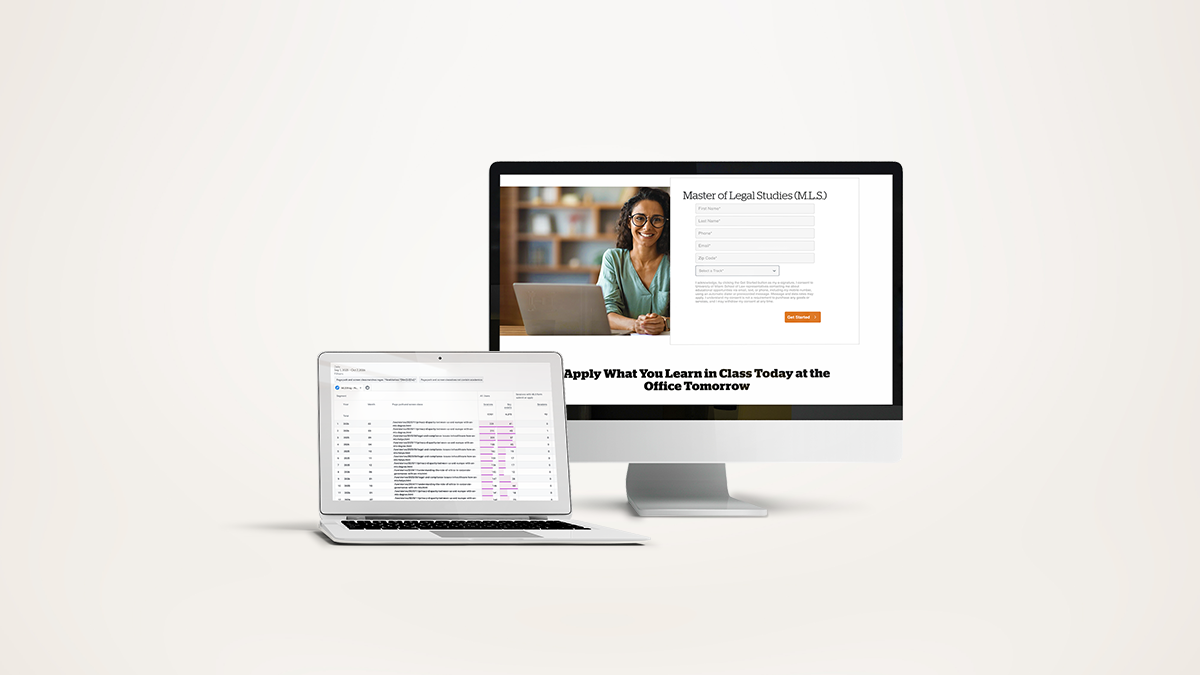
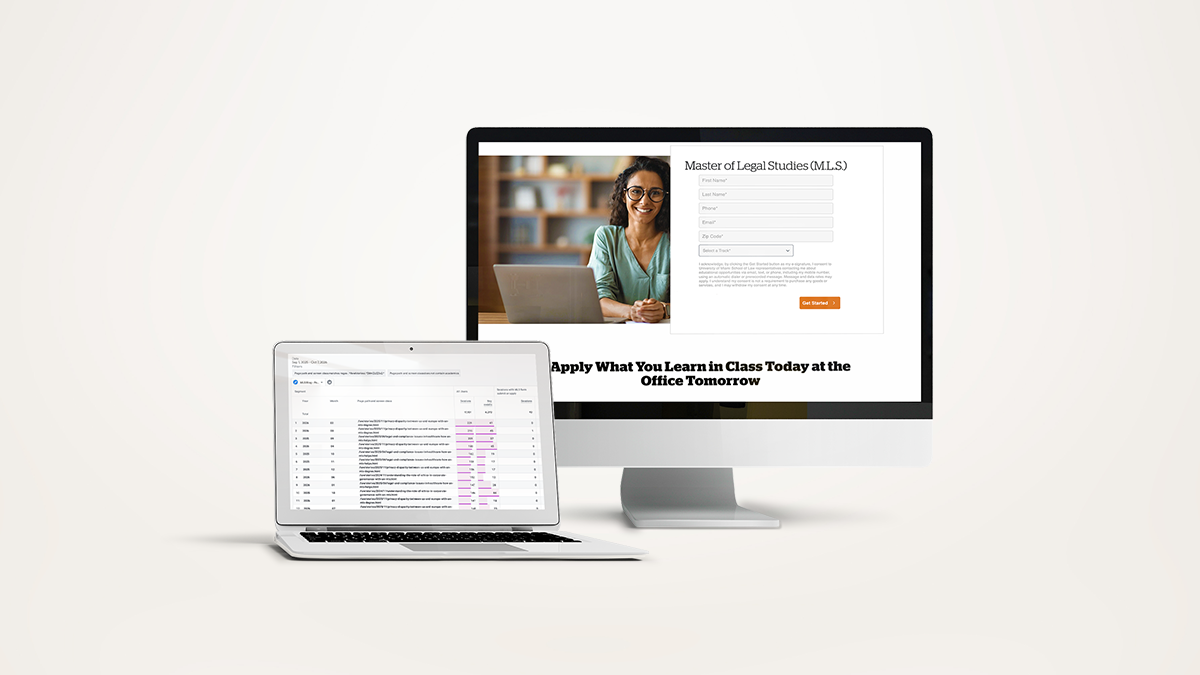
Refine about/resume copy, widen CTA section, update MLS case study image

Changed region(s): [[0.185, 0.1867, 0.8017, 0.84]]

diff --git a/index.html b/index.html
@@ -99,7 +99,7 @@
 				<h3>Profile</h3>
 				<p>I lead the strategy behind how people find, use, and act on digital content, and how we measure
 					whether it's working. At the University of Miami School of Law, I set the multi-year digital roadmap
-					aligned to the Dean's priorities, oversee DataHub, our web and digital analytics team, and connect
+					aligned to the Dean's priorities, and connect
 					information architecture, analytics, SEO/AEO, and content governance into one practice. I've raised
 					site health from 48 to 89, built the reporting teams across the school use to track their own
 					performance, and am leading the consolidation of four web properties into one. <strong>Bilingual in
@@ -117,7 +117,7 @@
 					</li>
 					<li>
 						<strong>Email:</strong>
-						<span>shavellythen@gmail.com</span>
+						<span><a href="mailto:shavellythen@gmail.com">shavellythen@gmail.com</a></span>
 					</li>
 
 				</ul>
@@ -128,36 +128,31 @@
 				<h3>Skills</h3>
 
 
-				<ul class="skill-bars">
+				<ul class="info-list">
 					<li>
-						<div class="progress percent90"><span>90%</span></div>
-						<strong>Figma / UX-UI Design</strong>
+						<strong>Analytics:</strong>
+						<span>GA4, Looker Studio, Google Tag Manager, Google Search Console, Microsoft Clarity</span>
 					</li>
 					<li>
-						<div class="progress percent93"><span>93%</span></div>
-						<strong>Information Architecture</strong>
+						<strong>SEO &amp; AI Search:</strong>
+						<span>Ahrefs, Semrush, Screaming Frog, Schema Markup</span>
 					</li>
 					<li>
-						<div class="progress percent95"><span>95%</span></div>
-						<strong>Content Management Systems</strong>
+						<strong>CMS:</strong>
+						<span>Cascade (Hannon Hill), Drupal, WordPress, SharePoint, Elfsight</span>
 					</li>
 					<li>
-						<div class="progress percent97"><span>97%</span></div>
-						<strong>Adobe Creative Suite</strong>
+						<strong>Research:</strong>
+						<span>UserTesting/UserZoom, Qualtrics, Card Sorting &amp; Tree Testing</span>
 					</li>
 					<li>
-						<div class="progress percent90"><span>90%</span></div>
-						<strong>Analytics</strong>
+						<strong>Design &amp; Code:</strong>
+						<span>Figma, Adobe Creative Suite, HTML/CSS</span>
 					</li>
 					<li>
-						<div class="progress percent85"><span>85%</span></div>
-						<strong>SEO Tools</strong>
+						<strong>Project Management:</strong>
+						<span>Asana, Jira, Monday.com</span>
 					</li>
-					<li>
-						<div class="progress percent90"><span>90%</span></div>
-						<strong>HTML / CSS</strong>
-					</li>
-
 				</ul>
 			</div>
 
@@ -212,47 +207,39 @@
 						<div class="timeline-content">
 							<h5>University of Miami, School of Law</h5>
 							<ul>
-								<li>Set the multi-year digital roadmap for the School of Law, aligned to the Dean's
-									priorities, spanning site architecture, analytics, SEO/AEO, and content governance
-								</li>
-
-								<li>Oversee DataHub, the school's web and digital analytics function: built 19 Looker
-									Studio dashboards with automated reporting used by admissions, marketing, writers,
-									and social media teams</li>
-
-								<li>Standardized UTM naming across 3 programs and added tracking to 6 previously
-									untracked newsletters, enabling campaign analysis for the first time</li>
-
-								<li>Diagnosed a 35% decline in Google traffic to the MLS blog using GA4 and Search
-									Console while confirming leads rose 47%, then rescoped the agency content plan
-									around data-prioritized rewrites</li>
-
-								<li>Restructured the Heckerling Institute site into a registration funnel informed by
-									GA4 path analysis; since launch, visitors rose 26% and clicks on key links rose 89%
-								</li>
-
-								<li>Leading the consolidation of four Law web properties (student, alumni, admissions,
-									and Heckerling Institute) onto a single domain: content inventory, redirect
-									strategy, and phased migration to preserve SEO authority and answer-engine (AEO)
-									citation</li>
-
-								<li>Raised law.miami.edu site health from 48 to 89 and admissions.law.miami.edu from 77
-									to a perfect 100 (Ahrefs)</li>
-
-								<li>Led a content and IA revamp of 44 LL.M. program pages, lifting key events 15.4% and
-									sessions 9.4%, even during a slower admissions cycle</li>
-
-								<li>Leading AI search visibility strategy: implemented FAQ schema via Google Tag Manager
-									on graduate program pages and evaluating AI visibility tracking with Semrush</li>
-
-								<li>Activated a Cascade audit report, making the School of Law the first UM school with
-									a live inventory of every page, its owner, and its update history</li>
-
-								<li>Own the digital tool stack (Ahrefs, Screaming Frog, Elfsight, GA4, Looker Studio),
-									including vendor evaluation and budget requests</li>
-
-								<li>Manage a direct report and train departments across the school on CMS publishing,
-									digital tools, and self-service reporting; launched monthly Web Office Hours</li>
+								<li>Set the multi-year digital roadmap for the School of Law, aligned to the Dean's priorities, spanning site
+									architecture, analytics, SEO/AEO, and content governance</li>
+							
+								<li>Oversee the School of Law's web and digital analytics function. Built 19 Looker Studio dashboards with automated
+									reporting, giving admissions, marketing, writers, and social media teams self-service visibility into their own
+									performance</li>
+							
+								<li>Diagnosed a 35% decline in Google traffic to the MLS blog using GA4 and Search Console, isolating it from
+									site-wide and seasonal trends while confirming leads rose 47%; rescoped the content agency's plan from 8 new
+									posts a month to 2 data-prioritized rewrites</li>
+							
+								<li>Restructured the Heckerling Institute site into a registration funnel informed by GA4 path analysis; since
+									launch, visitors rose 26%, clicks on key links rose 89%, and site searches fell by a third</li>
+							
+								<li>Standardized UTM naming conventions across 3 programs and added tracking to 6 previously untracked newsletters,
+									enabling program- and campaign-level analysis for the first time</li>
+							
+								<li>Leading a phased consolidation of four Law web properties (student, alumni, admissions, and Heckerling
+									Institute) onto a single domain: content inventory, effort assessment, redirect strategy, and migration
+									sequencing to preserve SEO authority and answer-engine (AEO) citation</li>
+							
+								<li>Own technical health governance: raised law.miami.edu from an Ahrefs Health Score of 48 to 89 (errors down 82%,
+									from 2,957 to 520) and admissions.law.miami.edu from 77 to a perfect 100</li>
+							
+								<li>Led a content and IA revamp of 44 LL.M. program pages, lifting key events (prospective students taking action)
+									15.4% and sessions 9.4%, even during a slower admissions cycle</li>
+							
+								<li>Leading AI search visibility strategy: implemented FAQ schema via Google Tag Manager on graduate program pages
+									and set up AI visibility tracking with SEO tools</li>
+							
+								<li>Manage a direct report and train departments across the school on CMS publishing, digital tools, and
+									self-service reporting; launched monthly Web Office Hours setting content, SEO, and accessibility (WCAG/ADA)
+									standards for web editors</li>
 							</ul>
 						</div>
 
@@ -381,7 +368,8 @@
 
 						<div class="timeline-content">
 							<h5>University of Miami</h5>
-							<p>GPA 3.8. Centered on information architecture and digital design.</p>
+							<p>GPA 3.8 · Outstanding Graduate Student Award<br>
+								Centered on information architecture and digital design.</p>
 						</div>
 
 					</div>
@@ -521,10 +509,9 @@
 							</div>
 							<div class="portfolio-card-content">
 								<h3>Measurement &amp; Reporting System</h3>
-								<p>Built the School of Law's reporting from the ground up: 19 Looker Studio dashboards,
-									UTM naming standards across programs, and tracking on newsletters that had none.
-									Added a live CMS page inventory and a Qualtrics request intake, so every team can
-									see its own performance and the web presence is fully accounted for.</p>
+								<p>Built the School of Law’s reporting from the ground up: 19 Looker Studio dashboards, UTM standards across programs,
+								tracking on newsletters that had none, a live CMS page inventory, and a Qualtrics request intake, so every team can see
+								its own performance.</p>
 								<div class="portfolio-tech">
 									<span>Analytics</span>
 									<span>Data Governance</span>
@@ -541,11 +528,11 @@
 						<div class="portfolio-card">
 							<div class="portfolio-card-image">
 								<img src="images/portfolio/llm-revamp.jpg"
-									alt="Tiled grid of redesigned LL.M. program pages, including the Entertainment, Arts and Sports Law page, showing a consistent hero video, program tracks, and testimonial sections">
+									alt="Tiled grid of redesigned LLM program pages, including the Entertainment, Arts and Sports Law page, showing a consistent hero video, program tracks, and testimonial sections">
 							</div>
 							<div class="portfolio-card-content">
-								<h3>LL.M. Program Pages Revamp</h3>
-								<p>A content and navigation restructure across 44 LL.M. program pages that lifted key
+								<h3>LLM Program Pages Revamp</h3>
+								<p>A content and navigation restructure across 44 LLM program pages that lifted key
 									events 15.4% and sessions 9.4%, even during a slower admissions cycle.</p>
 								<div class="portfolio-tech">
 									<span>Content Strategy</span>
@@ -553,8 +540,8 @@
 									<span>IA</span>
 								</div>
 								<a href="https://docs.google.com/presentation/d/1YvqakQyYzPB3X_FbLWU6va3fcJ98h8_cOw3dUfatYn0/present"
-									class="portfolio-link" aria-label="View the LL.M. program pages revamp case study">
-									LL.M. program pages case study <i class="fa fa-long-arrow-right"></i>
+									class="portfolio-link" aria-label="View the LLM program pages revamp case study">
+									LLM program pages case study <i class="fa fa-long-arrow-right"></i>
 								</a>
 							</div>
 						</div>

diff --git a/css/main.css b/css/main.css
@@ -2417,7 +2417,7 @@ border-color: #800020 !important;
   color: #6e6e6e;
 }
 .cta-content {
-  max-width: 640px;
+  max-width: 1140px;
 }
 .cta-thumb {
   display: inline-block;
